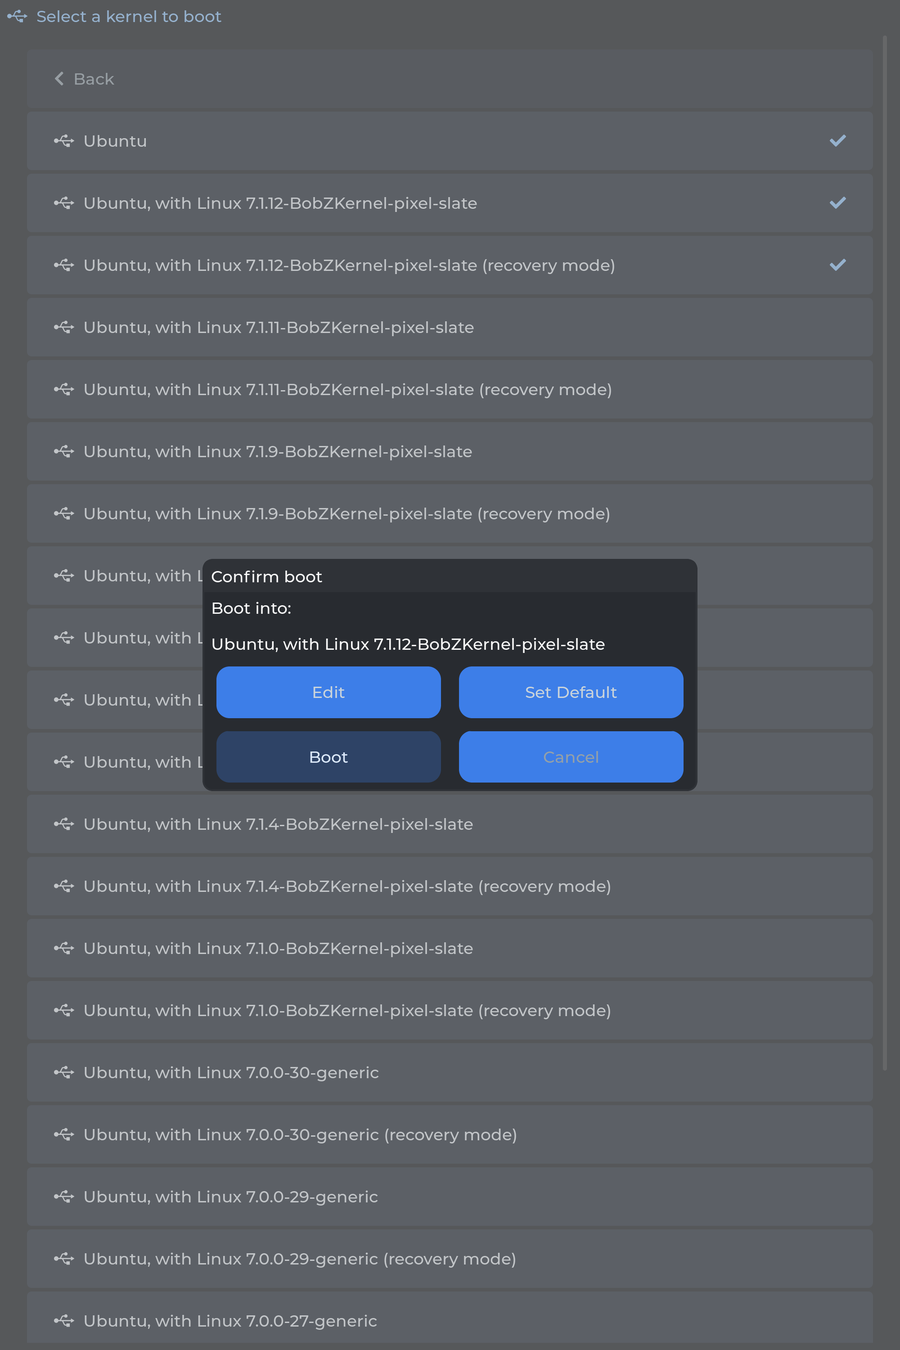
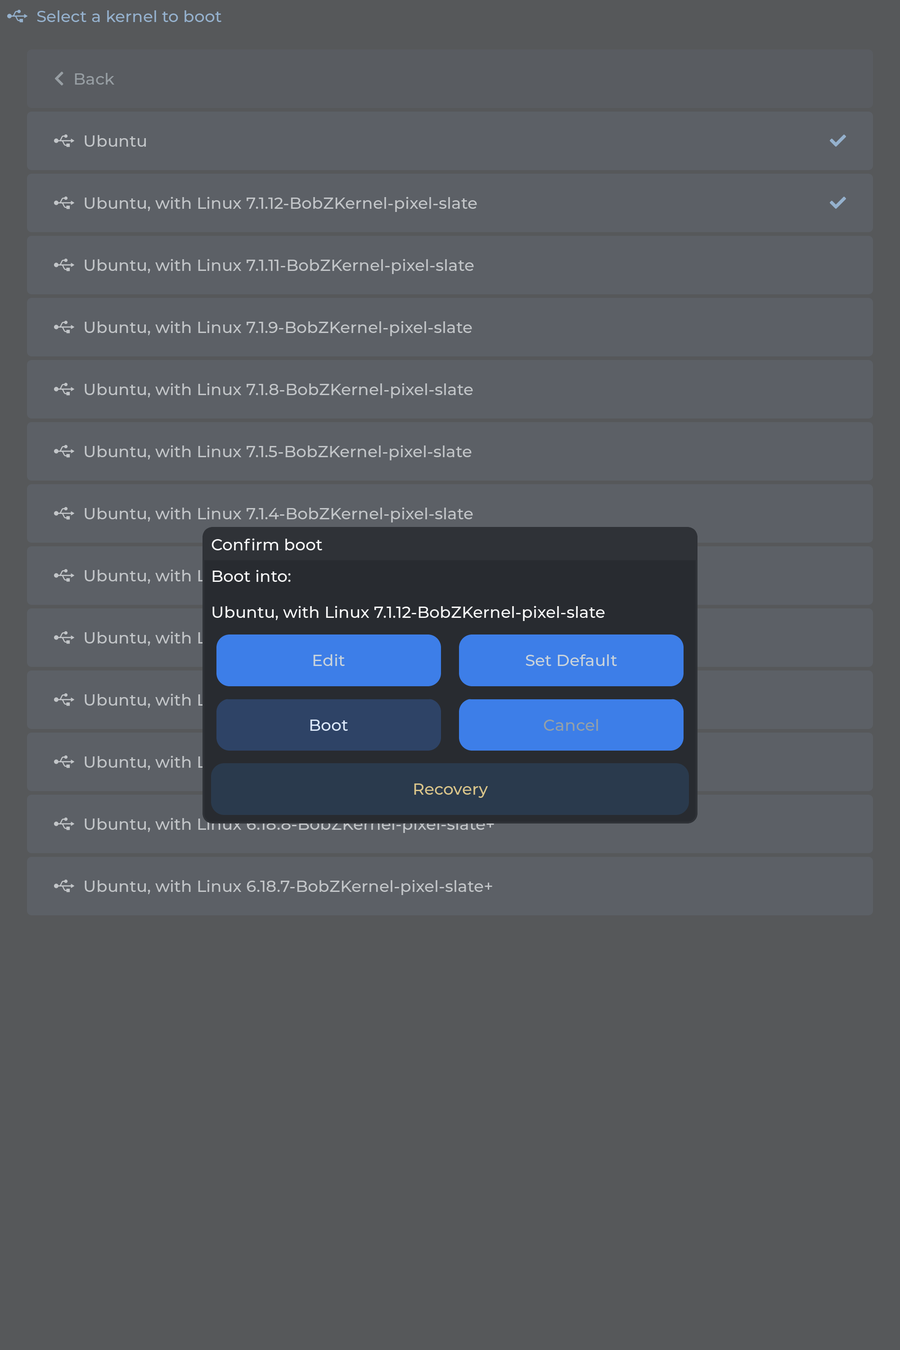
picker: fold recovery entries into their kernel's confirm dialog
GRUB emits a recovery variant beside most normal entries - same kernel,
same initrd, a cmdline with "recovery nomodeset". Listing both doubled
the menu for something wanted maybe once a year, and put the recovery
option nowhere near the kernel it belongs to. On the Slate that is 25
rows where 13 will do.

Recovery entries are now filtered out of the kernel list and surface as
a Recovery button in their own kernel's confirm dialog. Selecting it
just selects that entry, so its initrd and cmdline flow through
unchanged - no special-casing downstream.

Detected from the CMDLINE, not the title: "recovery" as a kernel
argument is what actually makes it a recovery boot, whereas "(recovery
mode)" is display text GRUB could localise. The title is kept as a
fallback. Checked against the real grub.cfg: all 12 recovery entries
carry the cmdline word and none of the 13 normal ones do.

Word-boundary matched, because "discovery" contains "recovery" - there
is a test for exactly that.

Layout: Recovery is created last and spans the final row, leaving the
approved 2x2 (Edit/Set Default over Boot/Cancel) untouched. The first
attempt spanned Cancel instead, which made the cancel action the
largest, brightest target in the dialog - visibly wrong in the render,
and worth having looked at rather than assuming. Recovery is muted
rather than accented: a deliberate occasional choice, not something to
draw the eye on every boot.
[…]

diff --git a/ui/picker.c b/ui/picker.c
@@ -683,6 +683,53 @@ static volatile int g_install = -1;
 static volatile int g_set_default = 0;
 static struct entry *g_entries;
 
+/* Declared up here because the recovery helpers below need it. */
+static int g_entry_n;
+
+/* GRUB emits a recovery variant beside most normal entries - same
+ * kernel, same initrd, a cmdline with "recovery nomodeset". Listing
+ * both doubles the menu for something you want maybe once a year, and
+ * separates the recovery option from the kernel it belongs to. So they
+ * are folded into the confirm dialog for their own kernel instead.
+ *
+ * Detected from the CMDLINE rather than the title: "recovery" as a
+ * kernel argument is what actually makes it a recovery boot, whereas
+ * the "(recovery mode)" suffix is display text GRUB could localise.
+ * The title is kept as a fallback for configs that word it differently.
+ * Verified against the Slate's real grub.cfg: all 12 recovery entries
+ * carry the cmdline word, none of the 13 normal ones do. */
+static int has_word(const char *hay, const char *word) {
+    size_t wl = strlen(word);
+    for (const char *p = strstr(hay, word); p; p = strstr(p + 1, word)) {
+        char before = (p == hay) ? ' ' : p[-1];
+        char after  = p[wl];
+        if ((before == ' ' || before == '\0') && (after == ' ' || after == '\0'))
+            return 1;
+    }
+    return 0;
+}
+
+static int is_recovery(const struct entry *e) {
+    return has_word(e->cmdline, "recovery") || strstr(e->title, "(recovery mode)") != NULL;
+}
+
+/* The recovery entry for the same kernel, or -1. Matched on the kernel
+ * image path - the pair differ only in cmdline. */
+static int find_recovery_for(int idx) {
+    if (idx < 0 || idx >= g_entry_n || is_recovery(&g_entries[idx])) return -1;
+    for (int i = 0; i < g_entry_n; i++)
+        if (i != idx && is_recovery(&g_entries[i]) &&
+            !strcmp(g_entries[i].linux_path, g_entries[idx].linux_path))
+            return i;
+    return -1;
+}
+
+static int count_bootable_rows(void) {
+    int n = 0;
+    for (int i = 0; i < g_entry_n; i++) if (!is_recovery(&g_entries[i])) n++;
+    return n;
+}
+
 static void open_confirm_dialog(int idx);
 
 /* Nothing else to do here: the main loop exits as soon as g_selected
@@ -692,6 +739,13 @@ static void open_confirm_dialog(int idx);
 static void confirm_cb(lv_event_t *e) {
     lv_obj_t *mbox = lv_event_get_user_data(e);
     g_selected = (int)(intptr_t)lv_obj_get_user_data(mbox);
+}
+
+/* Boots the recovery variant. The index carries everything - initrd and
+ * cmdline come from that entry - so this needs no special handling
+ * downstream; it is just a different entry to select. */
+static void recovery_cb(lv_event_t *e) {
+    g_selected = (int)(intptr_t)lv_event_get_user_data(e);
 }
 
 /* Set Default also boots into this entry now, same as Boot - the user
@@ -843,10 +897,18 @@ static void open_confirm_dialog(int idx) {
     snprintf(body, sizeof(body), "Boot into:\n\n%s", g_entries[idx].title);
     lv_msgbox_add_text(mbox, body);
 
+    /* Creation order is layout order. Recovery is created LAST and
+     * spans the final row, so the approved 2x2 (Edit/Set Default over
+     * Boot/Cancel) is untouched and Recovery reads as the extra option
+     * it is. Spanning Cancel instead - the first thing I tried - made
+     * the cancel action the largest, brightest target in the dialog,
+     * which is exactly backwards. */
+    int rec = find_recovery_for(idx);
     lv_obj_t *edit_btn = lv_msgbox_add_footer_button(mbox, "Edit");
     lv_obj_t *default_btn = lv_msgbox_add_footer_button(mbox, "Set Default");
     lv_obj_t *confirm_btn = lv_msgbox_add_footer_button(mbox, "Boot");
     lv_obj_t *cancel_btn = lv_msgbox_add_footer_button(mbox, "Cancel");
+    lv_obj_t *recovery_btn = (rec >= 0) ? lv_msgbox_add_footer_button(mbox, "Recovery") : NULL;
 
     lv_obj_t *footer = lv_msgbox_get_footer(mbox);
     /* The footer and header classes default to a hardcoded
@@ -866,8 +928,9 @@ static void open_confirm_dialog(int idx) {
      * buttons are no longer edge-to-edge. Change one, check the other. */
     lv_obj_set_style_pad_column(footer, DIALOG_BTN_GAP, 0);
     lv_obj_set_style_pad_row(footer, DIALOG_BTN_GAP, 0);
-    lv_obj_t *footer_btns[4] = {edit_btn, default_btn, confirm_btn, cancel_btn};
-    for (int i = 0; i < 4; i++) {
+    lv_obj_t *footer_btns[5] = {edit_btn, default_btn, confirm_btn, cancel_btn, recovery_btn};
+    int nbtn = recovery_btn ? 5 : 4;
+    for (int i = 0; i < nbtn; i++) {
         lv_obj_set_width(footer_btns[i], lv_pct(DIALOG_BTN_W_PCT));
         /* Explicit touch target: the theme sizes these from the font
          * alone, which left them ~13px (about 1mm) tall on this panel -
@@ -889,6 +952,15 @@ static void open_confirm_dialog(int idx) {
     lv_obj_set_style_border_color(confirm_btn, lv_color_hex(0x232c35), 0);
     lv_obj_set_style_border_color(cancel_btn, lv_color_hex(0x232c35), 0);
 
+    if (recovery_btn) {
+        lv_obj_set_width(recovery_btn, lv_pct(100));
+        /* Muted rather than accented: it is a deliberate, occasional
+         * choice, not something to draw the eye on every boot. */
+        lv_obj_set_style_bg_color(recovery_btn, lv_color_hex(0x2a3a4d), 0);
+        lv_obj_set_style_text_color(recovery_btn, lv_color_hex(0xd9c48a), 0);
+        lv_obj_add_event_cb(recovery_btn, recovery_cb, LV_EVENT_CLICKED, (void *)(intptr_t)rec);
+    }
+
     lv_obj_add_event_cb(edit_btn, edit_cb, LV_EVENT_CLICKED, mbox);
     lv_obj_add_event_cb(default_btn, set_default_cb, LV_EVENT_CLICKED, mbox);
     lv_obj_add_event_cb(confirm_btn, confirm_cb, LV_EVENT_CLICKED, mbox);
@@ -905,7 +977,6 @@ static lv_obj_t *g_list;      /* the container the screens rebuild */
 static lv_obj_t *g_header;
 static struct tarball *g_tarballs;
 static int g_tarball_n;
-static int g_entry_n;
 
 /* ---------------- install progress ----------------
  *
@@ -1266,7 +1337,7 @@ static void show_main_menu(void) {
     lv_label_set_text(g_header, LV_SYMBOL_POWER "  Boot picker");
 
     char buf[96];
-    snprintf(buf, sizeof(buf), "Boot a kernel   (%d installed)", g_entry_n);
+    snprintf(buf, sizeof(buf), "Boot a kernel   (%d installed)", count_bootable_rows());
     lv_obj_t *b = make_row_h(LV_SYMBOL_USB, buf, 0, MENU_ROW_H);
     lv_obj_add_event_cb(b, nav_cb, LV_EVENT_CLICKED, (void *)show_kernel_list);
 
@@ -1322,6 +1393,9 @@ static void show_kernel_list(void) {
     add_back_row(show_main_menu);
 
     for (int i = 0; i < g_entry_n; i++) {
+        /* Recovery variants live in their kernel's confirm dialog. */
+        if (is_recovery(&g_entries[i])) continue;
+
         lv_obj_t *btn = lv_button_create(g_list);
         lv_obj_set_width(btn, lv_pct(100));
         lv_obj_set_height(btn, ROW_H);

diff --git a/ui/test-install.c b/ui/test-install.c
@@ -89,6 +89,26 @@ int main(void) {
     ck(start_install(0) == 0, "starts a failing install too");
     ck(drain() == 0, "reports FAILURE for an exit-1 install (not silently ok)");
 
+    /* --- recovery entries fold into their kernel's dialog --- */
+    static struct entry rec[4] = {
+        { "Ubuntu, with Linux 7.1.12",           "/boot/vmlinuz-7.1.12", "/boot/initrd.img-7.1.12", "ro quiet splash", 0 },
+        { "Ubuntu, with Linux 7.1.12 (recovery mode)", "/boot/vmlinuz-7.1.12", "/boot/initrd.img-7.1.12", "ro recovery nomodeset", 0 },
+        { "Ubuntu, with Linux 7.1.9",            "/boot/vmlinuz-7.1.9",  "/boot/initrd.img-7.1.9",  "ro quiet splash", 0 },
+        /* the trap: "discovery" contains "recovery" as a substring */
+        { "Ubuntu with disk discovery",          "/boot/vmlinuz-7.1.8",  "/boot/initrd.img-7.1.8",  "ro discovery=on", 0 },
+    };
+    g_entries = rec; g_entry_n = 4;
+    ck(is_recovery(&rec[1]), "recognises a recovery entry by its cmdline");
+    ck(!is_recovery(&rec[0]), "a normal entry is not recovery");
+    ck(!is_recovery(&rec[3]), "'discovery' in the cmdline is NOT recovery (substring trap)");
+    ck(!has_word("ro nomodeset", "recovery"), "has_word does not match an absent word");
+    ck(has_word("recovery nomodeset", "recovery"), "matches at the start");
+    ck(has_word("ro recovery", "recovery"), "matches at the end");
+    ck(find_recovery_for(0) == 1, "pairs a kernel with its recovery variant by image path");
+    ck(find_recovery_for(2) == -1, "a kernel with no recovery variant reports none");
+    ck(find_recovery_for(1) == -1, "a recovery entry does not pair with itself");
+    ck(count_bootable_rows() == 3, "recovery entries are not counted as menu rows");
+
     /* --- removal: the distinct-kernel list --- */
     /* Real menus repeat each release as a plain entry, a "with Linux X"
      * entry and a recovery entry. Removal must offer each RELEASE once,

diff --git a/README.md b/README.md
@@ -53,10 +53,16 @@ The menu opens on three choices: **Boot a kernel**, which lists everything
 found in `grub.cfg`; **Install a kernel**, which lists kernel tarballs found
 on the real system; and **Remove a kernel**.
 
-Tapping a kernel opens a confirm dialog with four actions: **Boot**,
-**Cancel**, **Edit** (change this boot's kernel command line via an on-screen
-keyboard, one-time, not persisted) and **Set Default** (persist this kernel as
-the first entry for future boots).
+Tapping a kernel opens a confirm dialog with **Boot**, **Cancel**, **Edit**
+(change this boot's kernel command line via an on-screen keyboard, one-time,
+not persisted), **Set Default** (persist this kernel as the first entry for
+future boots), and **Recovery** where a recovery variant exists.
+
+GRUB emits a recovery entry beside most normal ones — same kernel, a cmdline
+with `recovery nomodeset`. Listing both doubles the menu for something you
+want maybe once a year and separates the recovery option from the kernel it
+belongs to, so they are folded into that kernel's dialog instead. On the
+Slate that turns 25 rows into 13.
 
 **Installing** shows a live progress screen — spinner, the current step, and
 a rolling tail of the installer's own output — because the work runs as a
